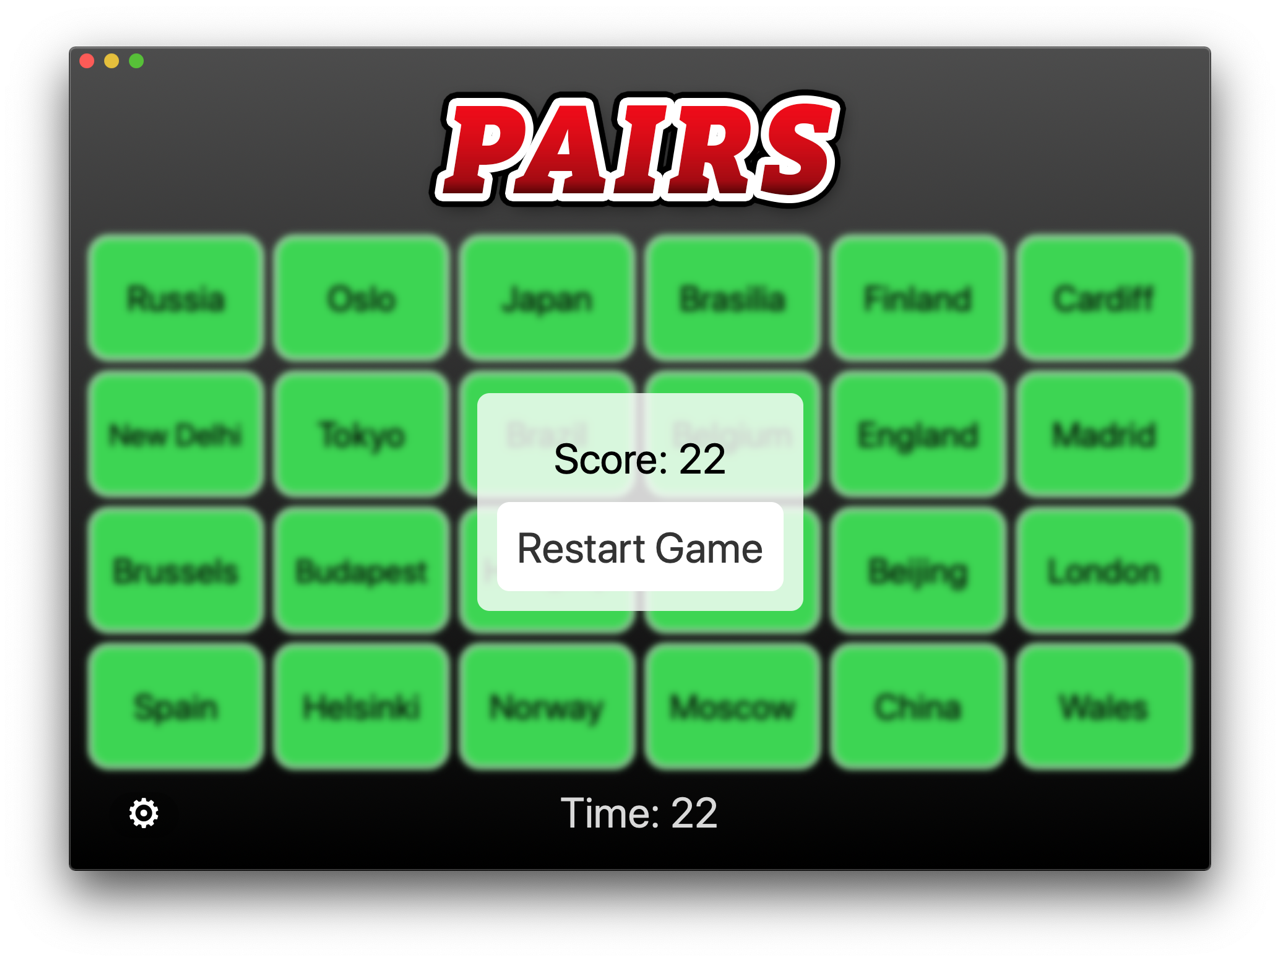
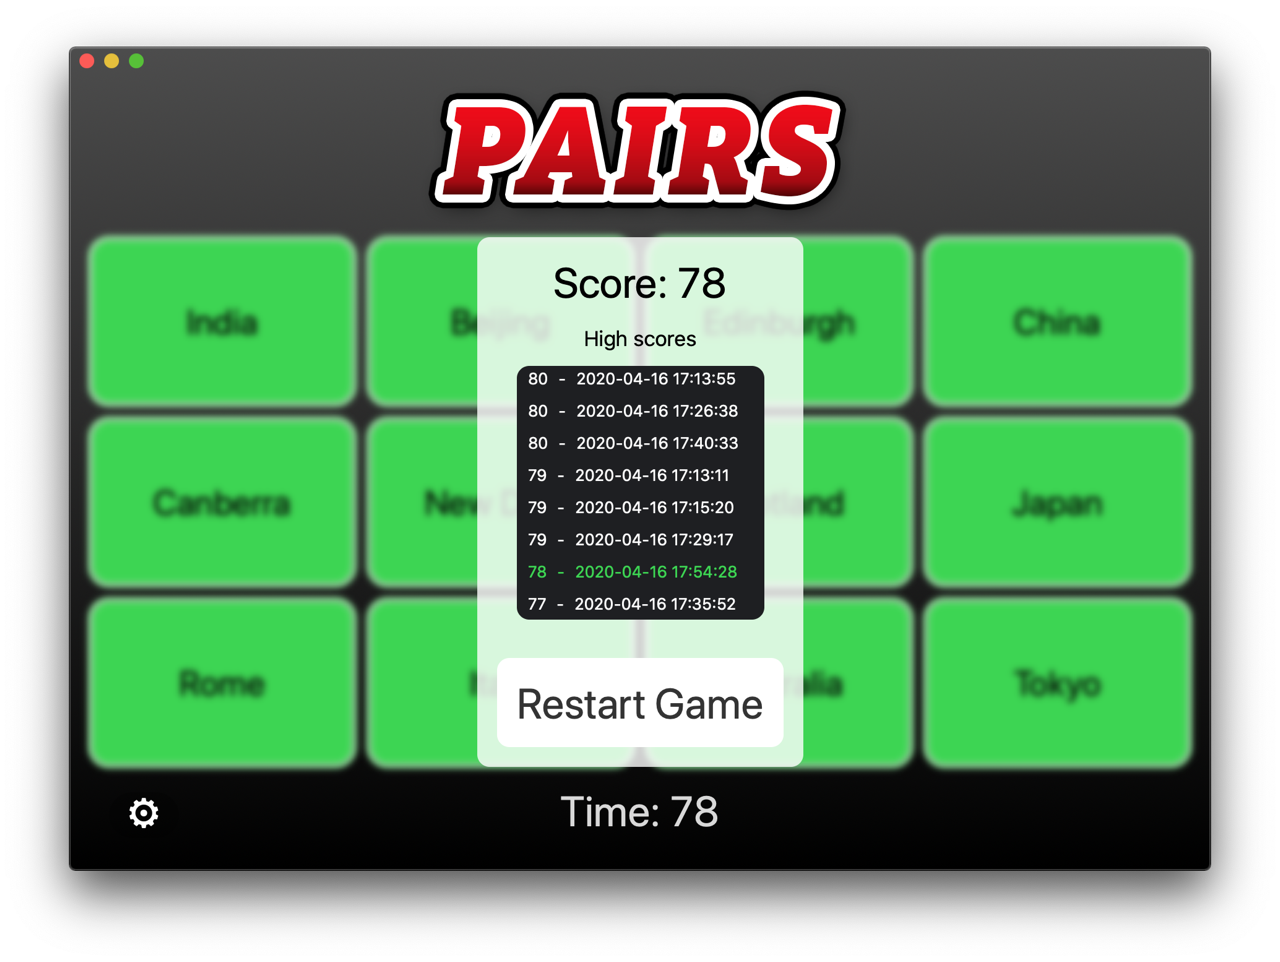
README

Changed region(s): [[0.0625, 0.0936, 0.9375, 0.8732]]

diff --git a/Pairs/README.md b/Pairs/README.md
@@ -7,7 +7,7 @@ https://www.youtube.com/watch?v=SroTB1buuD0
 1. Add difficulty levels
 2. Add more themes
 3. Add a begining and end screen
-4. List high scores *- Not available*
+4. List high scores
 
 # Screenshots
 
